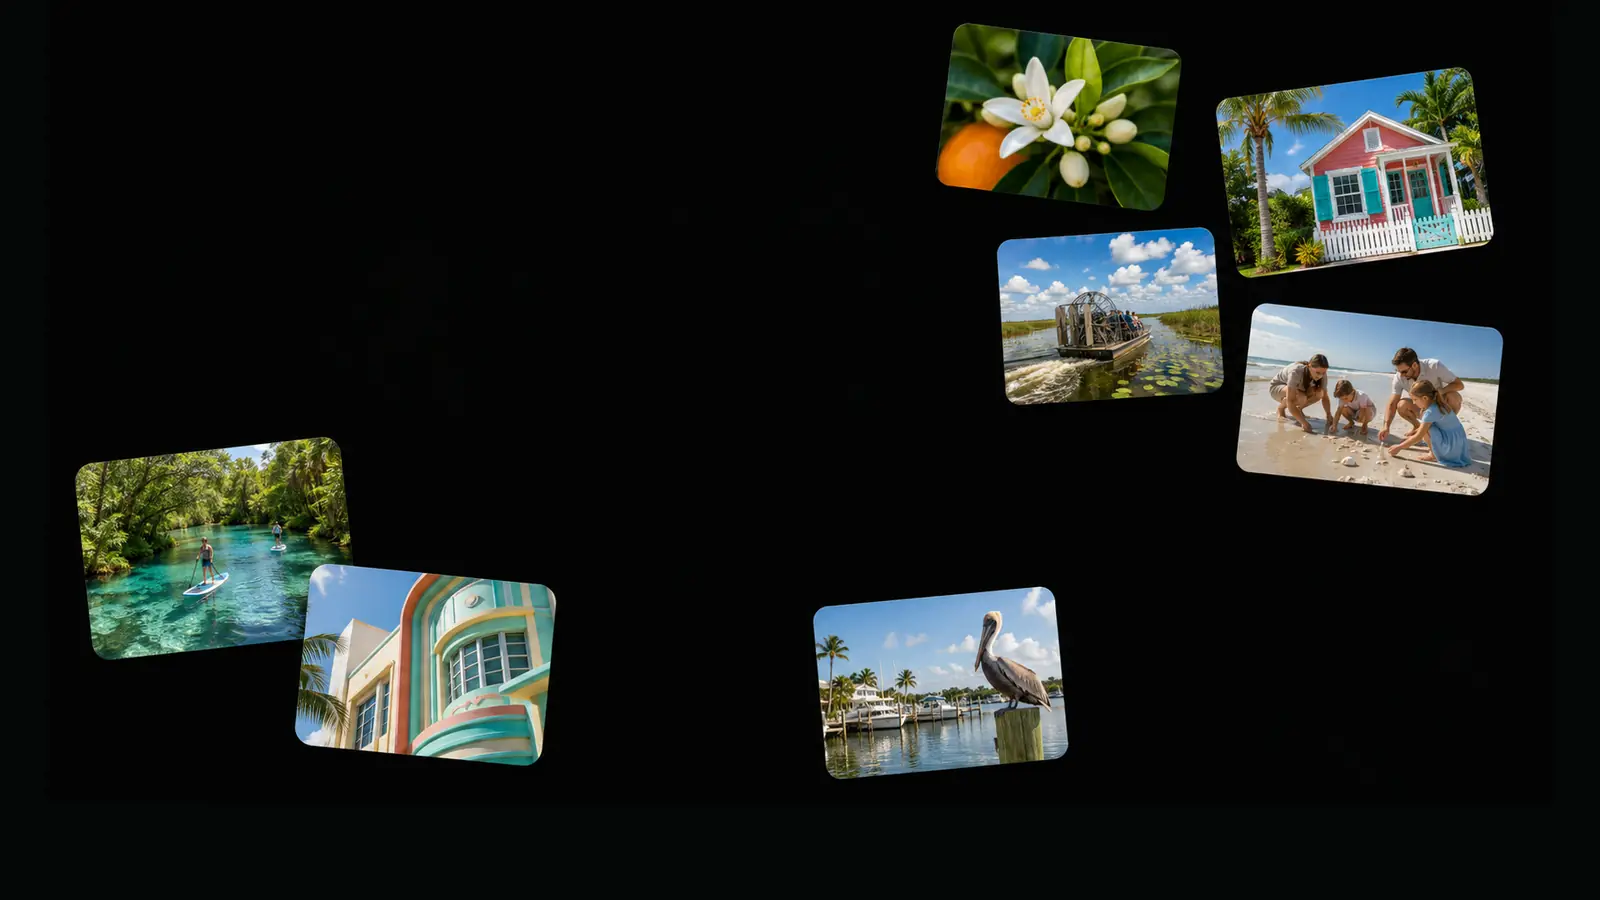
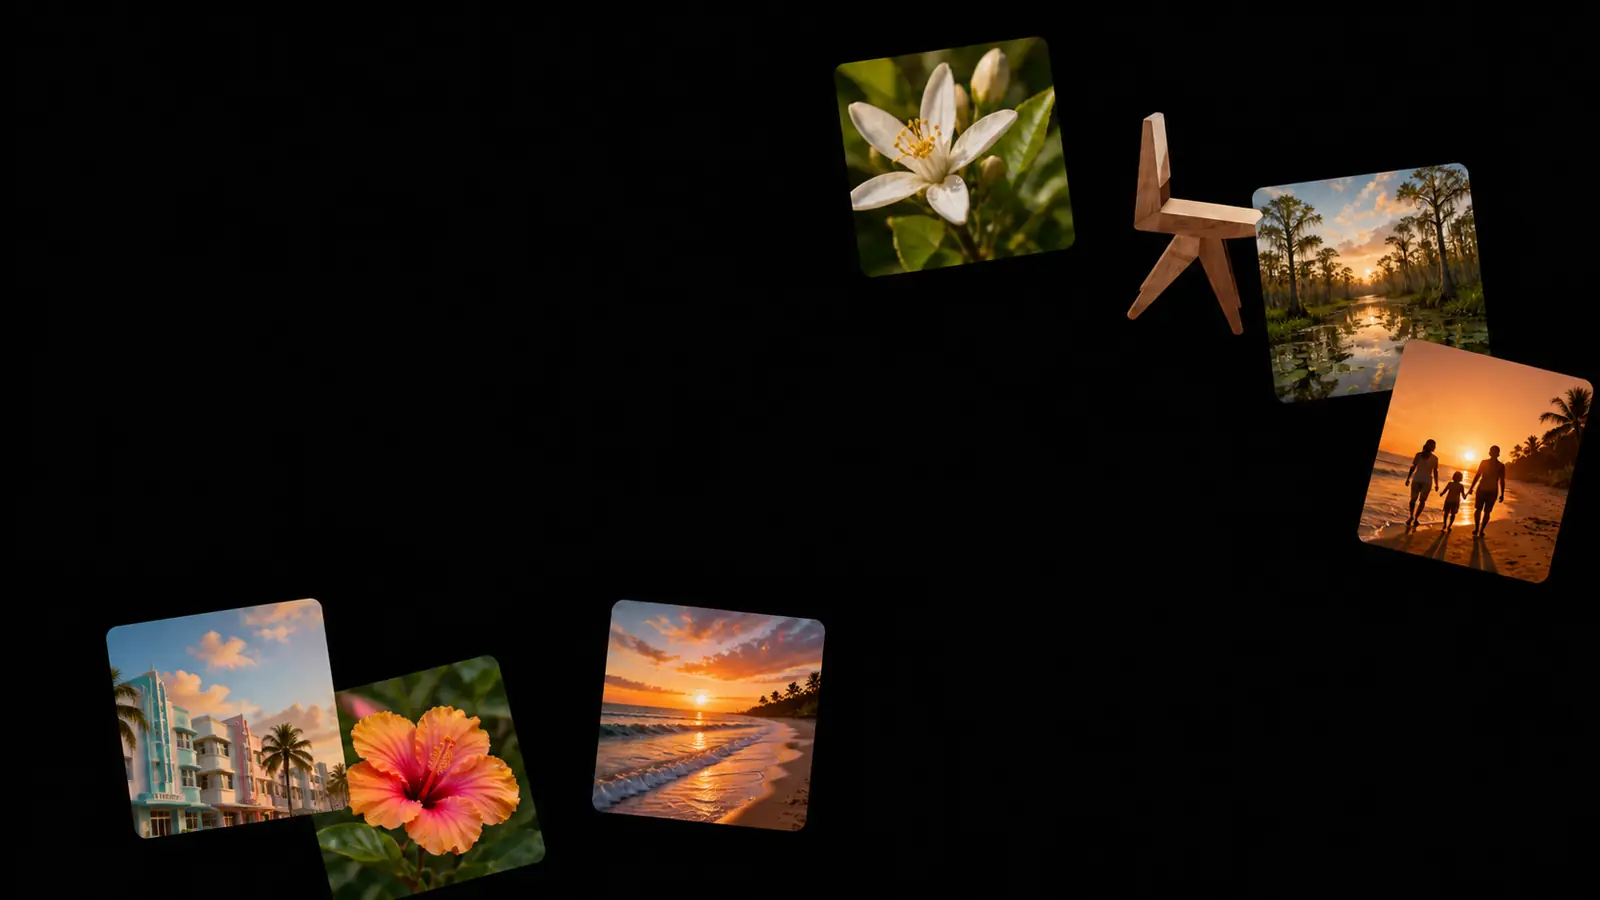
Match exact newsletter image layout

diff --git a/app/guide/guide.css b/app/guide/guide.css
@@ -57,10 +57,10 @@
 .guide-newsletter { overflow: hidden; background: #050706; }
 .guide-newsletter-stage { position: relative; width: 100%; min-height: clamp(580px, 56.25vw, 900px); display: grid; place-items: center; isolation: isolate; }
 .guide-newsletter-collage { position: absolute; z-index: -1; inset: 0; width: 100%; height: 100%; object-fit: cover; }
-.guide-newsletter-content { width: min(100%, 560px); padding: 56px 34px; background: #050706; color: #fff; text-align: center; }
+.guide-newsletter-content { width: min(100%, 860px); padding: 56px 34px; color: #fff; text-align: center; }
 .guide-newsletter-content .guide-eyebrow { justify-content: center; color: #fff; }
 .guide-newsletter h2 { margin: .5em 0 0; color: #fff; font-size: clamp(42px, 4.2vw, 72px); text-wrap: balance; }
-.guide-newsletter-content > p:not(.guide-eyebrow) { margin: 22px auto 30px; color: rgba(255, 255, 255, .78); font-size: clamp(16px, 1vw, 19px); }
+.guide-newsletter-content > p:not(.guide-eyebrow) { max-width: 650px; margin: 22px auto 30px; color: rgba(255, 255, 255, .78); font-size: clamp(16px, 1vw, 19px); }
 .guide-newsletter-content .site-cta { min-width: 220px; }
 
 .article-header { padding-top: var(--inner-section-space); padding-bottom: clamp(32px, 3vw, 44px); }
@@ -133,9 +133,9 @@
   .guide-grid { gap: 32px; }
   .guide-section-heading--row { display: block; }
   .guide-section-heading--row > p { margin-top: 22px; }
-  .guide-newsletter-stage { min-height: 600px; padding-inline: 0; }
-  .guide-newsletter-collage { object-fit: contain; }
-  .guide-newsletter-content { width: 100%; padding: 42px 24px; }
+  .guide-newsletter-stage { min-height: 720px; padding-inline: 0; }
+  .guide-newsletter-collage { object-fit: cover; object-position: center; }
+  .guide-newsletter-content { width: 100%; padding: 42px 24px; background: #050706; }
   .article-header { padding-top: 32px; padding-bottom: 32px; }
   .article-back { margin-bottom: 24px; }
   .article-heading-grid h1 { font-size: var(--type-page-size); }
